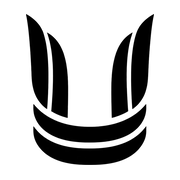
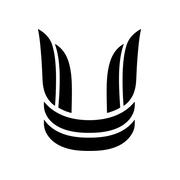
도메인 ublack.kr 로 주소 교체 + 파비콘 여백 조정

Changed region(s): [[0.1389, 0.0833, 0.8611, 0.9167]]

diff --git a/index.html b/index.html
@@ -12,11 +12,11 @@
 <body>
 <x-dc>
 <helmet>
-<link rel="canonical" href="https://ublack.pages.dev/">
+<link rel="canonical" href="https://ublack.kr/">
 <meta property="og:site_name" content="U.BLACK 유블랙">
 <meta property="og:type" content="website">
-<meta property="og:url" content="https://ublack.pages.dev/">
-<meta property="og:image" content="https://ublack.pages.dev/assets/director.png">
+<meta property="og:url" content="https://ublack.kr/">
+<meta property="og:image" content="https://ublack.kr/assets/director.png">
 <link rel="alternate" type="application/rss+xml" title="U.BLACK 유블랙" href="/rss.xml">
 <title>U.BLACK 유블랙 — 울산 두피문신 · SMP 스칼프 디자인 스튜디오</title>
 <meta name="description" content="유블랙은 울산의 SMP·두피문신 스튜디오입니다. 대표원장이 상담부터 디자인, 작업과 사후관리까지 직접 진행합니다.">

diff --git a/brand.html b/brand.html
@@ -12,11 +12,11 @@
 <body>
 <x-dc>
 <helmet>
-<link rel="canonical" href="https://ublack.pages.dev/brand">
+<link rel="canonical" href="https://ublack.kr/brand">
 <meta property="og:site_name" content="U.BLACK 유블랙">
 <meta property="og:type" content="website">
-<meta property="og:url" content="https://ublack.pages.dev/brand">
-<meta property="og:image" content="https://ublack.pages.dev/assets/director.png">
+<meta property="og:url" content="https://ublack.kr/brand">
+<meta property="og:image" content="https://ublack.kr/assets/director.png">
 <link rel="alternate" type="application/rss+xml" title="U.BLACK 유블랙" href="/rss.xml">
 <title>BRAND — 유블랙 브랜드 · 대표원장 | U.BLACK</title>
 <meta name="description" content="유블랙 브랜드 이야기와 대표원장의 운영 철학. 상담부터 사후관리까지 한 사람의 기준으로 이어가는 독립 SMP 스튜디오.">

diff --git a/program.html b/program.html
@@ -12,11 +12,11 @@
 <body>
 <x-dc>
 <helmet>
-<link rel="canonical" href="https://ublack.pages.dev/program">
+<link rel="canonical" href="https://ublack.kr/program">
 <meta property="og:site_name" content="U.BLACK 유블랙">
 <meta property="og:type" content="website">
-<meta property="og:url" content="https://ublack.pages.dev/program">
-<meta property="og:image" content="https://ublack.pages.dev/assets/director.png">
+<meta property="og:url" content="https://ublack.kr/program">
+<meta property="og:image" content="https://ublack.kr/assets/director.png">
 <link rel="alternate" type="application/rss+xml" title="U.BLACK 유블랙" href="/rss.xml">
 <title>PROGRAM — 두피문신 프로그램 | U.BLACK 유블랙</title>
 <meta name="description" content="헤어라인, M자, 정수리, 가르마, 삭발 디자인, 흉터 커버 등 유블랙의 SMP 두피문신 프로그램 안내.">

diff --git a/contact.html b/contact.html
@@ -12,11 +12,11 @@
 <body>
 <x-dc>
 <helmet>
-<link rel="canonical" href="https://ublack.pages.dev/contact">
+<link rel="canonical" href="https://ublack.kr/contact">
 <meta property="og:site_name" content="U.BLACK 유블랙">
 <meta property="og:type" content="website">
-<meta property="og:url" content="https://ublack.pages.dev/contact">
-<meta property="og:image" content="https://ublack.pages.dev/assets/director.png">
+<meta property="og:url" content="https://ublack.kr/contact">
+<meta property="og:image" content="https://ublack.kr/assets/director.png">
 <link rel="alternate" type="application/rss+xml" title="U.BLACK 유블랙" href="/rss.xml">
 <title>CONTACT — 위치 · 문의 | U.BLACK 유블랙</title>
 <meta name="description" content="유블랙 상담 문의 및 오시는 길. 울산광역시 북구 신천로 55-22, 404호. 카카오톡 채널, 전화 010-3924-0143.">

diff --git a/cases.html b/cases.html
@@ -12,11 +12,11 @@
 <body>
 <x-dc>
 <helmet>
-<link rel="canonical" href="https://ublack.pages.dev/cases">
+<link rel="canonical" href="https://ublack.kr/cases">
 <meta property="og:site_name" content="U.BLACK 유블랙">
 <meta property="og:type" content="website">
-<meta property="og:url" content="https://ublack.pages.dev/cases">
-<meta property="og:image" content="https://ublack.pages.dev/assets/director.png">
+<meta property="og:url" content="https://ublack.kr/cases">
+<meta property="og:image" content="https://ublack.kr/assets/director.png">
 <link rel="alternate" type="application/rss+xml" title="U.BLACK 유블랙" href="/rss.xml">
 <title>CASES — 시술 사례 | U.BLACK 유블랙</title>
 <meta name="description" content="유블랙의 실제 SMP 두피문신 작업 사례. 헤어라인, M자, 정수리, 가르마, 흉터, 기존 두피문신 보완.">

diff --git a/reviews.html b/reviews.html
@@ -12,11 +12,11 @@
 <body>
 <x-dc>
 <helmet>
-<link rel="canonical" href="https://ublack.pages.dev/reviews">
+<link rel="canonical" href="https://ublack.kr/reviews">
 <meta property="og:site_name" content="U.BLACK 유블랙">
 <meta property="og:type" content="website">
-<meta property="og:url" content="https://ublack.pages.dev/reviews">
-<meta property="og:image" content="https://ublack.pages.dev/assets/director.png">
+<meta property="og:url" content="https://ublack.kr/reviews">
+<meta property="og:image" content="https://ublack.kr/assets/director.png">
 <link rel="alternate" type="application/rss+xml" title="U.BLACK 유블랙" href="/rss.xml">
 <title>REVIEWS — 실제 후기 | U.BLACK 유블랙</title>
 <meta name="description" content="유블랙 SMP 두피문신 실제 고객 후기 아카이브. 사진 후기, 텍스트 후기, 영상 후기.">

diff --git a/academy.html b/academy.html
@@ -12,11 +12,11 @@
 <body>
 <x-dc>
 <helmet>
-<link rel="canonical" href="https://ublack.pages.dev/academy">
+<link rel="canonical" href="https://ublack.kr/academy">
 <meta property="og:site_name" content="U.BLACK 유블랙">
 <meta property="og:type" content="website">
-<meta property="og:url" content="https://ublack.pages.dev/academy">
-<meta property="og:image" content="https://ublack.pages.dev/assets/director.png">
+<meta property="og:url" content="https://ublack.kr/academy">
+<meta property="og:image" content="https://ublack.kr/assets/director.png">
 <link rel="alternate" type="application/rss+xml" title="U.BLACK 유블랙" href="/rss.xml">
 <title>ACADEMY — 교육 | U.BLACK 유블랙</title>
 <meta name="description" content="유블랙 아카데미. 현장의 SMP 디자인 기준을 교육과 세미나, 심사 활동으로 이어갑니다.">

diff --git a/README.md b/README.md
@@ -2,10 +2,10 @@
 
 1. 이 폴더 전체를 GitHub 저장소 루트에 업로드합니다.
 2. Cloudflare Dashboard → Workers & Pages → Create → Pages → Connect to Git → 저장소 선택.
-3. 프로젝트 이름: `ublack` → 주소 https://ublack.pages.dev
+3. 프로젝트 이름: `ublack` → 주소 https://ublack.kr
 4. Build settings: Framework preset **None**, Build command **비움**, Build output directory **/** (루트).
 5. Save and Deploy.
 
-배포 후 Google Search Console / 네이버 서치어드바이저에 `https://ublack.pages.dev/sitemap.xml`, `https://ublack.pages.dev/rss.xml`을 등록하세요.
+배포 후 Google Search Console / 네이버 서치어드바이저에 `https://ublack.kr/sitemap.xml`, `https://ublack.kr/rss.xml`을 등록하세요.
 
 페이지: / · /brand · /program · /cases · /academy · /reviews · /contact
